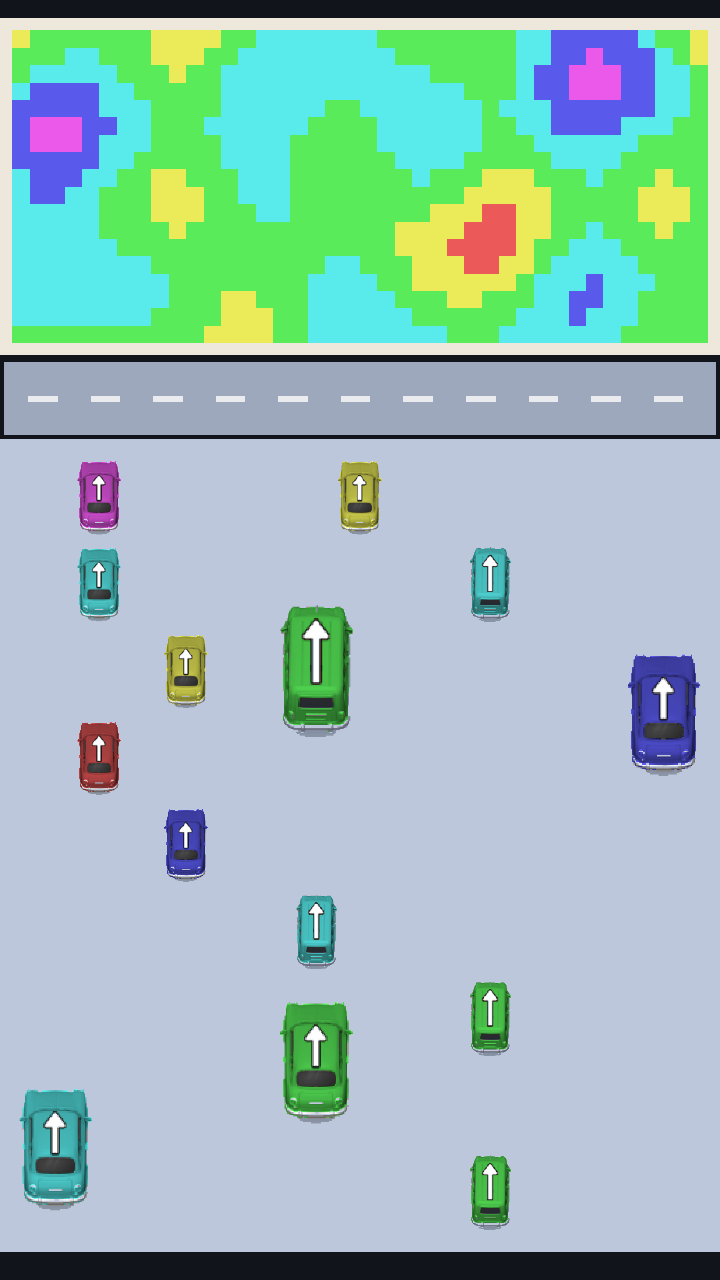
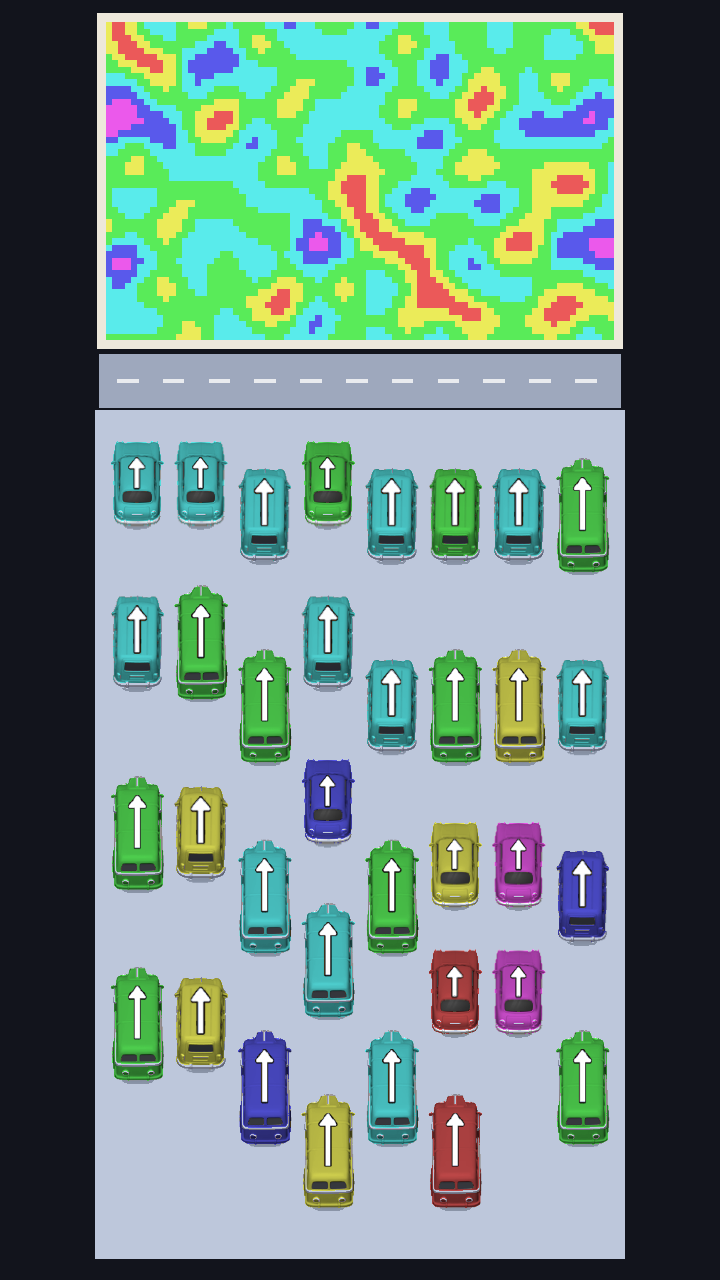
停车场改为按列紧密堆叠，测试关放大到 80x50

diff --git a/Assets/Scripts/Game/Common/LotPacker.cs b/Assets/Scripts/Game/Common/LotPacker.cs
@@ -2,7 +2,7 @@
 // Copyright (c) WithMe8 2023-2030
 // Author: WYF
 // Date: 2026-10-29
-// Desc: 把车按朝向和车长塞进停车场，并保证有一条能开出来的顺序
+// Desc: 把车按朝向和车长塞进停车场
 //---------------------------------------------------------------------------------------
 
 using System.Collections.Generic;
@@ -12,14 +12,16 @@ namespace PixelCar.Common
     /// <summary>
     /// 停车场排布。车头格子写在 <see cref="CarState.Col"/> / <see cref="CarState.Row"/>，
     /// 车身沿朝向的反方向占 <see cref="CarState.Span"/> 格。
-    /// 从后往前放：后放的车先能开出去，先放的车会被它挡住，所以关卡一定有解。
+    ///
+    /// 采用按列紧密堆叠：每列从最靠近车道的一行往下排，
+    /// 所以每列最上面的车一定没有阻挡，整关一定有解。
     /// </summary>
     public static class LotPacker
     {
         private const int LotCols = 8;
 
         /// <summary>
-        /// 按载量给车长：小车 2 格，中车 3 格，大巴 3 格。
+        /// 按载量给车长：小车 2 格，中车和大巴 3 格。
         /// </summary>
         /// <param name="capacity">额定载量</param>
         /// <returns>占用格数</returns>
@@ -73,8 +75,8 @@ namespace PixelCar.Common
         /// <param name="noseCol">车头列</param>
         /// <param name="noseRow">车头行</param>
         /// <param name="dir">朝向</param>
-        /// <param name="cols">停车场列数</param>
-        /// <param name="rows">停车场行数</param>
+        /// <param name="cols">列数</param>
+        /// <param name="rows">行数</param>
         /// <param name="occupancy">占位表，空格为空</param>
         /// <returns>被挡住时为 true</returns>
         public static bool PathBlocked(int noseCol, int noseRow, ECarDir dir, int cols, int rows, CarState[] occupancy)
@@ -134,9 +136,10 @@ namespace PixelCar.Common
 
         /// <summary>
         /// 排布全部车辆。结果写回每辆车的朝向、车头格子和车长。
+        /// 从后往前放：后放的车排在更靠近车道的位置，先放的车被它挡住，关卡通得了。
         /// </summary>
         /// <param name="cars">待命车辆</param>
-        /// <param name="seed">随机种子，同一关重复开是同一张停车场</param>
+        /// <param name="seed">随机种子，保留参数以兼容调用方</param>
         /// <param name="cols">停车场列数</param>
         /// <param name="rows">停车场行数</param>
         public static void Pack(IList<CarState> cars, int seed, out int cols, out int rows)
@@ -148,8 +151,14 @@ namespace PixelCar.Common
                 return;
             }
 
-            var cells = 0;
-            for (var i = 0; i < cars.Count; ++i)
+            var columnTop = new int[cols];
+            for (var i = 0; i < cols; ++i)
+            {
+                columnTop[i] = 0;
+            }
+
+            // 倒序放：列表末尾的车排在最上面，最靠近车道
+            for (var i = cars.Count - 1; i >= 0; --i)
             {
                 var car = cars[i];
                 if (car == null)
@@ -157,22 +166,41 @@ namespace PixelCar.Common
                     continue;
                 }
 
-                car.Span = SpanOf(car.Capacity);
-                cells += car.Span;
+                var span = MathUtil.Clamp(SpanOf(car.Capacity), 1, 3);
+                var col = ShortestColumn(columnTop);
+                car.Dir = ECarDir.Up;
+                car.Span = span;
+                car.Col = col;
+                car.Row = columnTop[col];
+                columnTop[col] += span;
             }
 
-            var baseRows = MathUtil.Max(2, (cells + cols - 1) / cols);
-            var rngSeed = seed == 0 ? 1 : seed;
-            for (var extra = 0; extra < 6; ++extra)
+            var maxTop = 1;
+            for (var i = 0; i < cols; ++i)
             {
-                rows = baseRows + extra;
-                if (TryPack(cars, cols, rows, rngSeed + extra * 17))
+                maxTop = MathUtil.Max(maxTop, columnTop[i]);
+            }
+
+            rows = maxTop;
+        }
+
+        /// <summary>
+        /// 找当前最空的一列，尽量让各列高度接近。
+        /// </summary>
+        /// <param name="columnTop">每列已占到的行号</param>
+        /// <returns>列号</returns>
+        private static int ShortestColumn(int[] columnTop)
+        {
+            var best = 0;
+            for (var i = 1; i < columnTop.Length; ++i)
+            {
+                if (columnTop[i] < columnTop[best])
                 {
-                    return;
+                    best = i;
                 }
             }
 
-            Fallback(cars, cols, out rows);
+            return best;
         }
 
         /// <summary>
@@ -202,178 +230,6 @@ namespace PixelCar.Common
                 default:
                     col = noseCol - step;
                     return;
-            }
-        }
-
-        /// <summary>
-        /// 试着把全部车放进给定网格。放不下返回 false，不保留半成品。
-        /// </summary>
-        /// <param name="cars">车辆</param>
-        /// <param name="cols">列数</param>
-        /// <param name="rows">行数</param>
-        /// <param name="seed">随机种子</param>
-        /// <returns>是否全部放下</returns>
-        private static bool TryPack(IList<CarState> cars, int cols, int rows, int seed)
-        {
-            var occupancy = new CarState[cols * rows];
-            var rng = new Rng((uint)seed);
-            var buffer = new int[4];
-
-            for (var i = cars.Count - 1; i >= 0; --i)
-            {
-                var car = cars[i];
-                if (car == null)
-                {
-                    continue;
-                }
-
-                if (!PlaceOne(car, occupancy, cols, rows, rng, buffer))
-                {
-                    return false;
-                }
-            }
-
-            return true;
-        }
-
-        /// <summary>
-        /// 随机找一个当前就能开出去的空位。
-        /// </summary>
-        /// <param name="car">车辆</param>
-        /// <param name="occupancy">占位表</param>
-        /// <param name="cols">列数</param>
-        /// <param name="rows">行数</param>
-        /// <param name="rng">随机数</param>
-        /// <param name="buffer">格子缓冲</param>
-        /// <returns>是否放下</returns>
-        private static bool PlaceOne(CarState car, CarState[] occupancy, int cols, int rows, Rng rng, int[] buffer)
-        {
-            var span = MathUtil.Clamp(car.Span, 1, buffer.Length);
-            for (var attempt = 0; attempt < 240; ++attempt)
-            {
-                var dir = (ECarDir)rng.Next(4);
-                int noseCol;
-                int noseRow;
-                switch (dir)
-                {
-                    case ECarDir.Up:
-                        noseCol = rng.Next(cols);
-                        noseRow = rng.Next(rows - span + 1);
-                        break;
-                    case ECarDir.Down:
-                        noseCol = rng.Next(cols);
-                        noseRow = span - 1 + rng.Next(rows - span + 1);
-                        break;
-                    case ECarDir.Left:
-                        noseCol = rng.Next(cols - span + 1);
-                        noseRow = rng.Next(rows);
-                        break;
-                    default:
-                        noseCol = span - 1 + rng.Next(cols - span + 1);
-                        noseRow = rng.Next(rows);
-                        break;
-                }
-
-                var count = Collect(noseCol, noseRow, span, dir, cols, rows, buffer);
-                if (count < 0)
-                {
-                    continue;
-                }
-
-                var free = true;
-                for (var i = 0; i < count; ++i)
-                {
-                    if (occupancy[buffer[i]] != null)
-                    {
-                        free = false;
-                        break;
-                    }
-                }
-
-                if (!free || PathBlocked(noseCol, noseRow, dir, cols, rows, occupancy))
-                {
-                    continue;
-                }
-
-                car.Col = noseCol;
-                car.Row = noseRow;
-                car.Dir = dir;
-                car.Span = span;
-                for (var i = 0; i < count; ++i)
-                {
-                    occupancy[buffer[i]] = car;
-                }
-
-                return true;
-            }
-
-            return false;
-        }
-
-        /// <summary>
-        /// 随机放不下时改成朝上的整齐队列，前排能直接开出。
-        /// </summary>
-        /// <param name="cars">车辆</param>
-        /// <param name="cols">列数</param>
-        /// <param name="rows">实际用到的行数</param>
-        private static void Fallback(IList<CarState> cars, int cols, out int rows)
-        {
-            var band = 0;
-            var col = 0;
-            for (var i = 0; i < cars.Count; ++i)
-            {
-                var car = cars[i];
-                if (car == null)
-                {
-                    continue;
-                }
-
-                if (col >= cols)
-                {
-                    col = 0;
-                    band += 3;
-                }
-
-                car.Dir = ECarDir.Up;
-                car.Span = MathUtil.Clamp(car.Span, 1, 3);
-                car.Col = col;
-                car.Row = band;
-                ++col;
-            }
-
-            rows = band + 3;
-        }
-
-        /// <summary>
-        /// 不分配的小随机数。
-        /// </summary>
-        private sealed class Rng
-        {
-            private uint mState;
-
-            /// <summary>
-            /// 构造
-            /// </summary>
-            /// <param name="seed">种子</param>
-            public Rng(uint seed)
-            {
-                mState = seed == 0u ? 1u : seed;
-            }
-
-            /// <summary>
-            /// 取 [0, count) 的整数
-            /// </summary>
-            /// <param name="count">上界</param>
-            /// <returns>随机值</returns>
-            public int Next(int count)
-            {
-                mState = mState * 1664525u + 1013904223u;
-                if (count <= 1)
-                {
-                    return 0;
-                }
-
-                return (int)(mState % (uint)count);
             }
         }
     }

diff --git a/Assets/Scripts/Game/Client/Entry/GameEntry.cs b/Assets/Scripts/Game/Client/Entry/GameEntry.cs
@@ -22,9 +22,9 @@ namespace PixelCar.Client
         public TextAsset LevelJson;
 
         [Header("测试关参数（LevelJson 为空时生效）")]
-        public int TestWidth = 40;
+        public int TestWidth = 80;
 
-        public int TestHeight = 18;
+        public int TestHeight = 50;
 
         public int TestColors = 6;
 
